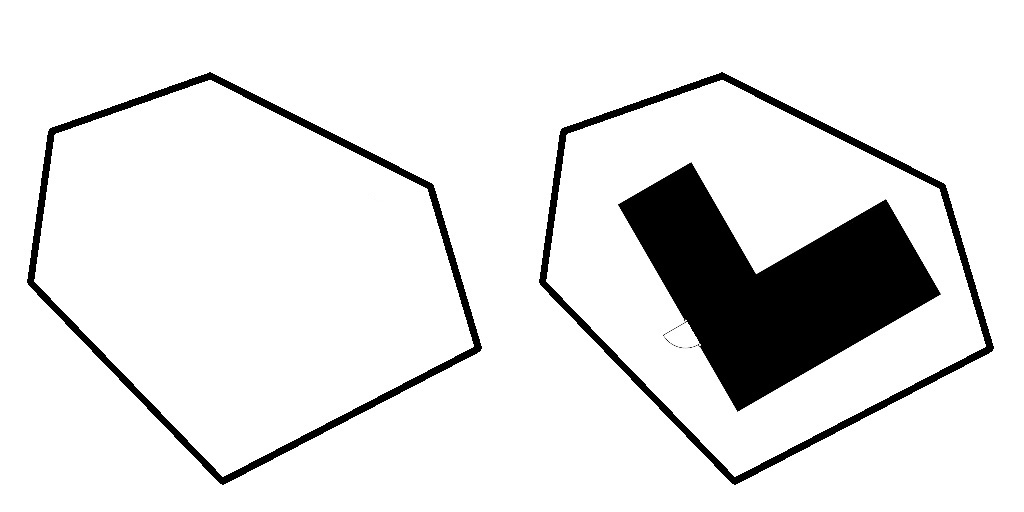
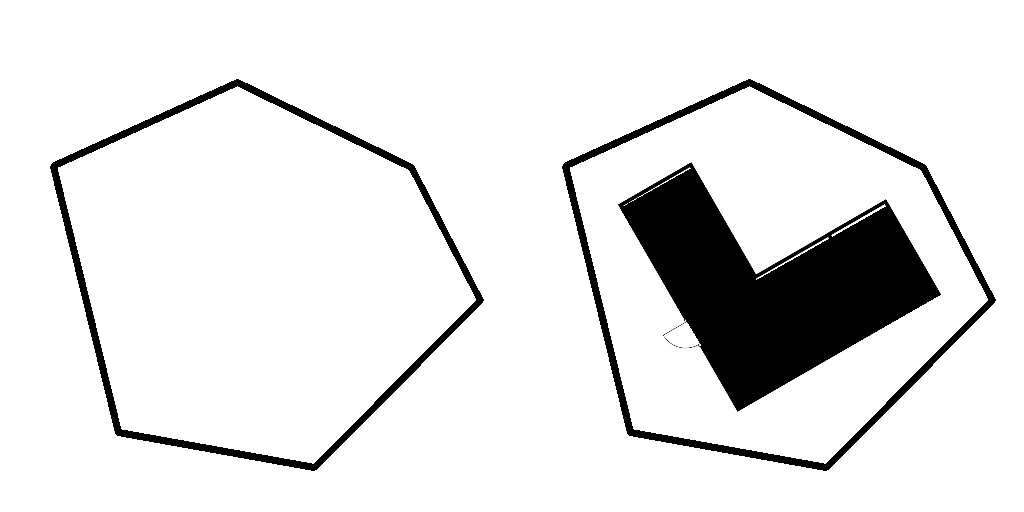
script for roomsplit and furnished finished

diff --git a/create_furnished.py b/create_furnished.py
@@ -1,0 +1,194 @@
+import os 
+import cv2
+import numpy as np
+from copy import deepcopy, copy
+from PIL import ImageColor
+# ESC to next 
+# c to clear the door image 
+class  Parcel_Preparation:
+    def __init__(self):
+        self.folder_name = "Dataset_3rooms"
+        self.final_folder_name = "final_"+self.folder_name
+        self.furnished_folder_name = 'furnished_'+self.folder_name
+        self.image_size = 512
+        self.list_of_image = os.listdir("ROBIN/"+self.final_folder_name)
+        cv2.namedWindow(winname="Thumbnail")
+        cv2.setMouseCallback("Thumbnail",self.get_point)
+        self.armchair = []
+        self.bed = []
+        self.coffeetable = []
+        self.roundtable = []
+        self.largesofa = []
+        self.smallsofa = []
+        self.sink = []
+        self.twinsink = []
+        self.smallsink = []
+        self.largesink = []
+        self.tub = []
+        self.dinningtable = []
+        self.temp = []
+        self.possible_state =['armchair','bed','coffeetable','roundtable','largesofa','smallsofa','sink','twinsink','smallsink','largesink','tub','dinningtable']
+        self.state = ""
+        self.img = None
+        if not os.path.isdir("ROBIN/"+self.furnished_folder_name):
+            os.makedirs("ROBIN/"+self.furnished_folder_name)
+
+    def get_point(self,event,x,y,flags,param):
+        if event == 1:
+            # press the left button
+            self.temp.append([x,y])
+
+    def change_class(self):
+        if self.state == 'armchair':
+            self.armchair.append(self.temp)
+        elif self.state == 'bed':
+            self.bed.append(self.temp)
+        elif self.state == 'coffeetable':
+            self.coffeetable.append(self.temp)
+        elif self.state == 'roundtable':
+            self.roundtable.append(self.temp)
+        elif self.state == 'largesofa':
+            self.largesofa.append(self.temp)
+        elif self.state == 'smallsofa':
+            self.smallsofa.append(self.temp)
+        elif self.state == 'sink':
+            self.sink.append(self.temp)
+        elif self.state == 'twinsink':
+            self.twinsink.append(self.temp)
+        elif self.state == 'smallsink':
+            self.smallsink.append(self.temp)
+        elif self.state == 'largesink':
+            self.largesink.append(self.temp)
+        elif self.state == 'tub':
+            self.tub.append(self.temp)
+        elif self.state == 'dinningtable':
+            self.dinningtable.append(self.temp)
+        self.temp =[]
+        
+
+    def create_footprint(self):
+        for image in self.list_of_image:
+            if not os.path.isfile('ROBIN/'+self.furnished_folder_name+'/'+image):
+                self.armchair = []
+                self.bed = []
+                self.coffeetable = []
+                self.roundtable = []
+                self.largesofa = []
+                self.smallsofa = []
+                self.sink = []
+                self.twinsink = []
+                self.smallsink = []
+                self.largesink = []
+                self.tub = []
+                self.dinningtable = []
+                self.temp = []
+                self.state = ""
+                self.isClear = False
+                self.img = cv2.imread("ROBIN/"+self.final_folder_name+"/"+image)
+                self.img = cv2.resize(self.img,(self.image_size*2,self.image_size*2))
+                while True:
+                    self.img_copy=np.copy(self.img)
+                    if len(self.temp)>2:
+                        corners = np.array(self.temp)
+                        self.img_copy = cv2.fillPoly(self.img_copy, [corners], color=ImageColor.getcolor('#cccccc','RGB')[::-1])
+                    for armchair in self.armchair: 
+                        corners = np.array(armchair)
+                        self.img_copy = cv2.fillPoly(self.img_copy, [corners], color=ImageColor.getcolor('#c8b18b','RGB')[::-1])
+                    for bed in self.bed:
+                        corners = np.array(bed)
+                        self.img_copy = cv2.fillPoly(self.img_copy, [corners], color=ImageColor.getcolor('#23eaa5','RGB')[::-1])
+                    for coffeetable in self.coffeetable:
+                        corners = np.array(coffeetable)
+                        self.img_copy = cv2.fillPoly(self.img_copy, [corners], color=ImageColor.getcolor('#f483cd','RGB')[::-1])
+                    for roundtable in self.roundtable:
+                        corners = np.array(roundtable)
+                        self.img_copy = cv2.fillPoly(self.img_copy, [corners], color=ImageColor.getcolor('#276cbd','RGB')[::-1])
+                    for largesofa in self.largesofa:
+                        corners = np.array(largesofa)
+                        self.img_copy = cv2.fillPoly(self.img_copy, [corners], color=ImageColor.getcolor('#f59080','RGB')[::-1])
+                    for smallsofa in self.smallsofa:
+                        corners = np.array(smallsofa)
+                        self.img_copy = cv2.fillPoly(self.img_copy, [corners], color=ImageColor.getcolor('#61419c','RGB')[::-1])
+                    for sink in self.sink:
+                        corners = np.array(sink)
+                        self.img_copy = cv2.fillPoly(self.img_copy, [corners], color=ImageColor.getcolor('#b83773','RGB')[::-1])
+                    for twinsink in self.twinsink:
+                        corners = np.array(twinsink)
+                        self.img_copy = cv2.fillPoly(self.img_copy, [corners], color=ImageColor.getcolor('#ebdd21','RGB')[::-1])
+                    for smallsink in self.smallsink:
+                        corners = np.array(smallsink)
+                        self.img_copy = cv2.fillPoly(self.img_copy, [corners], color=ImageColor.getcolor('#8b1c0e','RGB')[::-1])
+                    for largesink in self.largesink:
+                        corners = np.array(largesink)
+                        self.img_copy = cv2.fillPoly(self.img_copy, [corners], color=ImageColor.getcolor('#a7dc26','RGB')[::-1])
+                    for tub in self.tub:
+                        corners = np.array(tub)
+                        self.img_copy = cv2.fillPoly(self.img_copy, [corners], color=ImageColor.getcolor('#e83b1b','RGB')[::-1])
+                    for dinningtable in self.dinningtable:
+                        corners = np.array(dinningtable)
+                        self.img_copy = cv2.fillPoly(self.img_copy, [corners], color=ImageColor.getcolor('#20340b','RGB')[::-1])
+
+                    cv2.imshow("Thumbnail",self.img_copy)
+                    
+                    key = cv2.waitKey(10) & 0xFF
+                    if key == 27:
+                        break
+                    if key == ord('a'):
+                        self.change_class()
+                        self.state = 'armchair'
+                        print(self.state)
+                    elif key == ord('b'):
+                        self.change_class()
+                        self.state = 'bed'
+                        print(self.state)
+                    elif key == ord('c'):
+                        self.change_class()
+                        self.state = 'coffeetable'
+                        print(self.state)
+                    elif key == ord('d'):
+                        self.change_class()
+                        self.state = 'roundtable'
+                        print(self.state)
+                    elif key == ord('e'):
+                        self.change_class()
+                        self.state = 'largesofa'
+                        print(self.state)
+                    elif key == ord('f'):
+                        self.change_class()
+                        self.state = 'smallsofa'
+                        print(self.state)
+                    elif key == ord('g'):
+                        self.change_class()
+                        self.state = 'sink'
+                        print(self.state)
+                    elif key == ord('h'):
+                        self.change_class()
+                        self.state = 'twinsink'
+                        print(self.state)
+                    elif key == ord('i'):
+                        self.change_class()
+                        self.state = 'smallsink'
+                        print(self.state)
+                    elif key == ord('j'):
+                        self.change_class()
+                        self.state = 'largesink'
+                        print(self.state)
+                    elif key == ord('k'):
+                        self.change_class()
+                        self.state = 'tub'
+                        print(self.state)
+                    elif key == ord('l'):
+                        self.change_class()
+                        self.state = 'dinningtable'
+                        print(self.state)
+            if len(self.armchair+self.bed+self.coffeetable+self.roundtable+self.largesofa+self.smallsofa+self.sink+self.twinsink+self.smallsink+self.largesink+self.tub+self.dinningtable) != 0:
+                self.img_copy = cv2.resize(self.img_copy,(self.image_size,self.image_size))
+                cv2.imwrite("ROBIN/"+self.furnished_folder_name+"/"+image,self.img_copy)
+                print("saved")
+            else:
+                print("Roomsplit already created")
+        cv2.destroyAllWindows()
+
+
+parcel = Parcel_Preparation()
+parcel.create_footprint()

diff --git a/create_roomsplit.py b/create_roomsplit.py
@@ -19,6 +19,7 @@ class  Parcel_Preparation:
         self.entry = []
         self.kitchen = []
         self.hall = []
+        self.temp = []
         self.possible_state =['bedroom','bathroom','entry','kitchen','hall']
         self.state = ""
         self.img = None
@@ -28,19 +29,33 @@ class  Parcel_Preparation:
     def get_point(self,event,x,y,flags,param):
         if event == 1:
             # press the left button
-            if self.state in self.possible_state:
-                idx = self.possible_state.index(self.state)
-                if idx == 0: 
-                    self.bedroom.append([x,y])
-                elif idx == 1:
-                    self.bathroom.append([x,y])
-                elif idx == 2: 
-                    self.entry.append([x,y])
-                elif idx == 3:
-                    self.kitchen.append([x,y])
-                elif idx == 4: 
-                    self.hall.append([x,y])              
+            self.temp.append([x,y])
+            # if self.state in self.possible_state:
+            #     idx = self.possible_state.index(self.state)
+            #     if idx == 0: 
+            #         self.bedroom.append([x,y])
+            #     elif idx == 1:
+            #         self.bathroom.append([x,y])
+            #     elif idx == 2: 
+            #         self.entry.append([x,y])
+            #     elif idx == 3:
+            #         self.kitchen.append([x,y])
+            #     elif idx == 4: 
+            #         self.hall.append([x,y])              
 
+    def change_class(self):
+        if self.state == 'bedroom':
+            self.bedroom.append(self.temp)
+        elif self.state == 'bathroom':
+            self.bathroom.append(self.temp)
+        elif self.state == 'entry':
+            self.entry.append(self.temp)
+        elif self.state == 'kitchen':
+            self.kitchen.append(self.temp)
+        elif self.state == 'hall':
+            self.hall.append(self.temp)
+        self.temp =[]
+        
 
     def create_footprint(self):
         for image in self.list_of_image:
@@ -50,26 +65,32 @@ class  Parcel_Preparation:
                 self.entry = []
                 self.kitchen = []
                 self.hall = []
+                self.temp = []
+                self.state = ""
                 self.isClear = False
                 self.img = cv2.imread("ROBIN/"+self.final_folder_name+"/"+image)
                 self.img = cv2.resize(self.img,(self.image_size,self.image_size))
                 
                 while True:
                     self.img_copy=np.copy(self.img)
-                    if len(self.bedroom)>2:
-                        corners = np.array(self.bedroom)
+                    if len(self.temp)>2:
+                        corners = np.array(self.temp)
+                        self.img_copy = cv2.fillPoly(self.img_copy, [corners], color=ImageColor.getcolor('#cccccc','RGB')[::-1])
+                    
+                    for bedroom in self.bedroom: 
+                        corners = np.array(bedroom)
                         self.img_copy = cv2.fillPoly(self.img_copy, [corners], color=ImageColor.getcolor('#f1bf15','RGB')[::-1])
-                    if len(self.bathroom)>2:
-                        corners = np.array(self.bathroom)
+                    for bathroom in self.bathroom:
+                        corners = np.array(bathroom)
                         self.img_copy = cv2.fillPoly(self.img_copy, [corners], color=ImageColor.getcolor('#9352a8','RGB')[::-1])
-                    if len(self.entry)>2:
-                        corners = np.array(self.entry)
+                    for entry in self.entry:
+                        corners = np.array(entry)
                         self.img_copy = cv2.fillPoly(self.img_copy, [corners], color=ImageColor.getcolor('#f7760b','RGB')[::-1])
-                    if len(self.kitchen)>2:
-                        corners = np.array(self.kitchen)
+                    for kitchen in self.kitchen:
+                        corners = np.array(kitchen)
                         self.img_copy = cv2.fillPoly(self.img_copy, [corners], color=ImageColor.getcolor('#99c6f9','RGB')[::-1])
-                    if len(self.hall)>2:
-                        corners = np.array(self.hall)
+                    for hall in self.hall:
+                        corners = np.array(hall)
                         self.img_copy = cv2.fillPoly(self.img_copy, [corners], color=ImageColor.getcolor('#d51c3c','RGB')[::-1])
                     cv2.imshow("Thumbnail",self.img_copy)
                     
@@ -77,24 +98,29 @@ class  Parcel_Preparation:
                     if key == 27:
                         break
                     if key == ord('a'):
+                        self.change_class()
                         self.state = 'bedroom'
                         print(self.state)
+                    
                     elif key == ord('b'):
+                        self.change_class()
                         self.state = 'bathroom'
                         print(self.state)
                     elif key == ord('c'):
+                        self.change_class()
                         self.state = 'entry'
                         print(self.state)
                     elif key == ord('d'):
+                        self.change_class()
                         self.state = 'kitchen'
                         print(self.state)
                     elif key == ord('e'):
+                        self.change_class()
                         self.state = 'hall'
                         print(self.state)
-                    
-                if len(self.bedroom+self.bathroom+self.entry+self.kitchen+self.hall) != 0:
-                    cv2.imwrite("ROBIN/"+self.roomsplit_folder_name+"/"+image,self.img_copy)
-                    print("saved")
+            if len(self.bedroom+self.bathroom+self.entry+self.kitchen+self.hall) != 0:
+                cv2.imwrite("ROBIN/"+self.roomsplit_folder_name+"/"+image,self.img_copy)
+                print("saved")
             else:
                 print("Roomsplit already created")
         cv2.destroyAllWindows()

diff --git a/create_parcel.py b/create_parcel.py
@@ -43,7 +43,7 @@ class  Parcel_Preparation:
                     if cv2.waitKey(10) & 0xFF == 27:
                         break
                 if len(self.footprint_points) != 0:
-                cv2.imwrite("ROBIN/"+self.parcel_folder_name+"/"+image,self.img_copy)
+                    cv2.imwrite("ROBIN/"+self.parcel_folder_name+"/"+image,self.img_copy)
             else:
                 print("Partion already created")
         cv2.destroyAllWindows()

diff --git a/create_augmented_datset.py b/create_augmented_datset.py
@@ -5,7 +5,7 @@ import pandas as pd
 import numpy as np
 import os.path
 
-folder="Dataset_5rooms"
+folder="Dataset_3rooms"
 list_of_image=os.listdir("ROBIN/"+folder)
 # print(list_of_image)
 #to get the size of all images 
